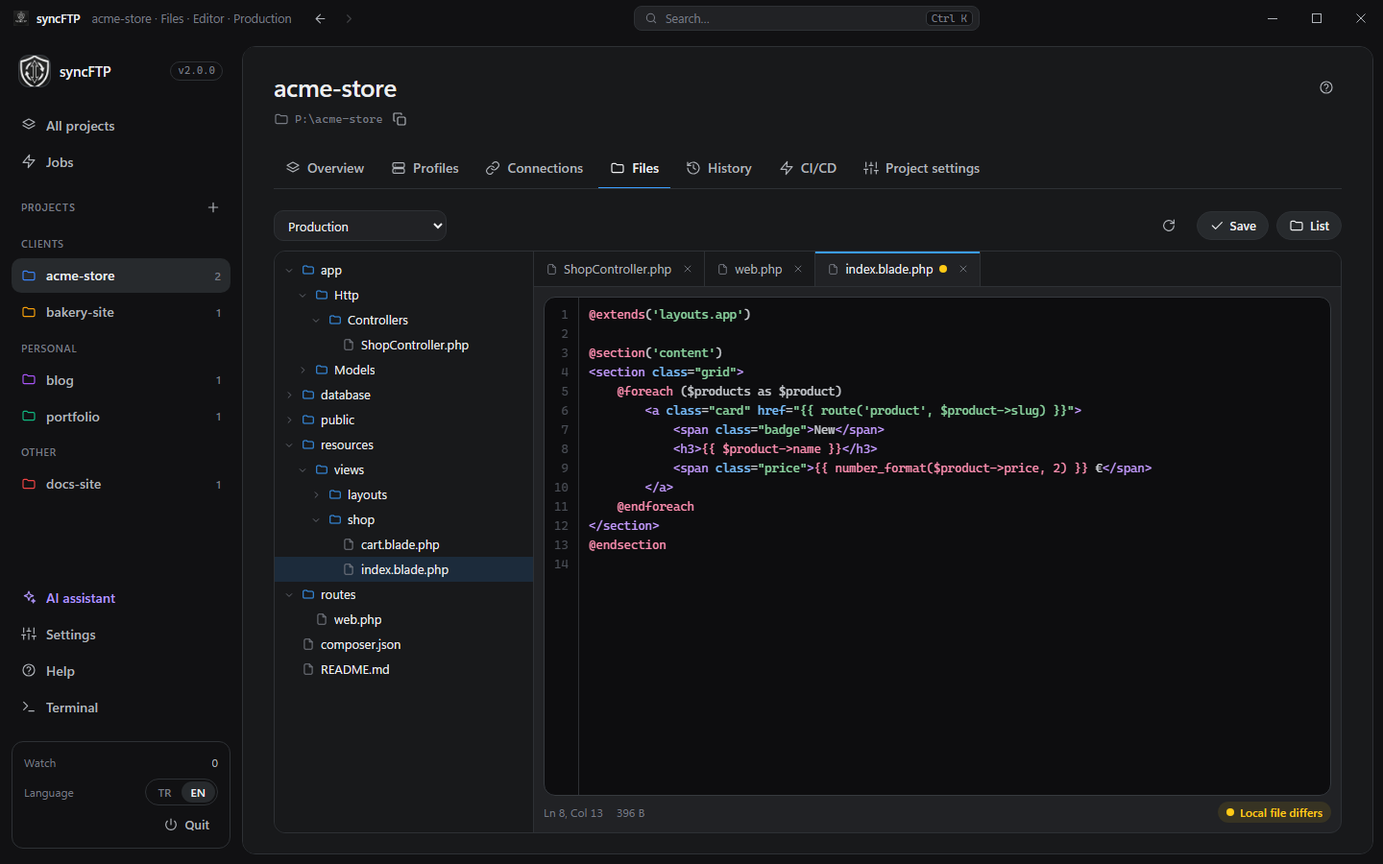
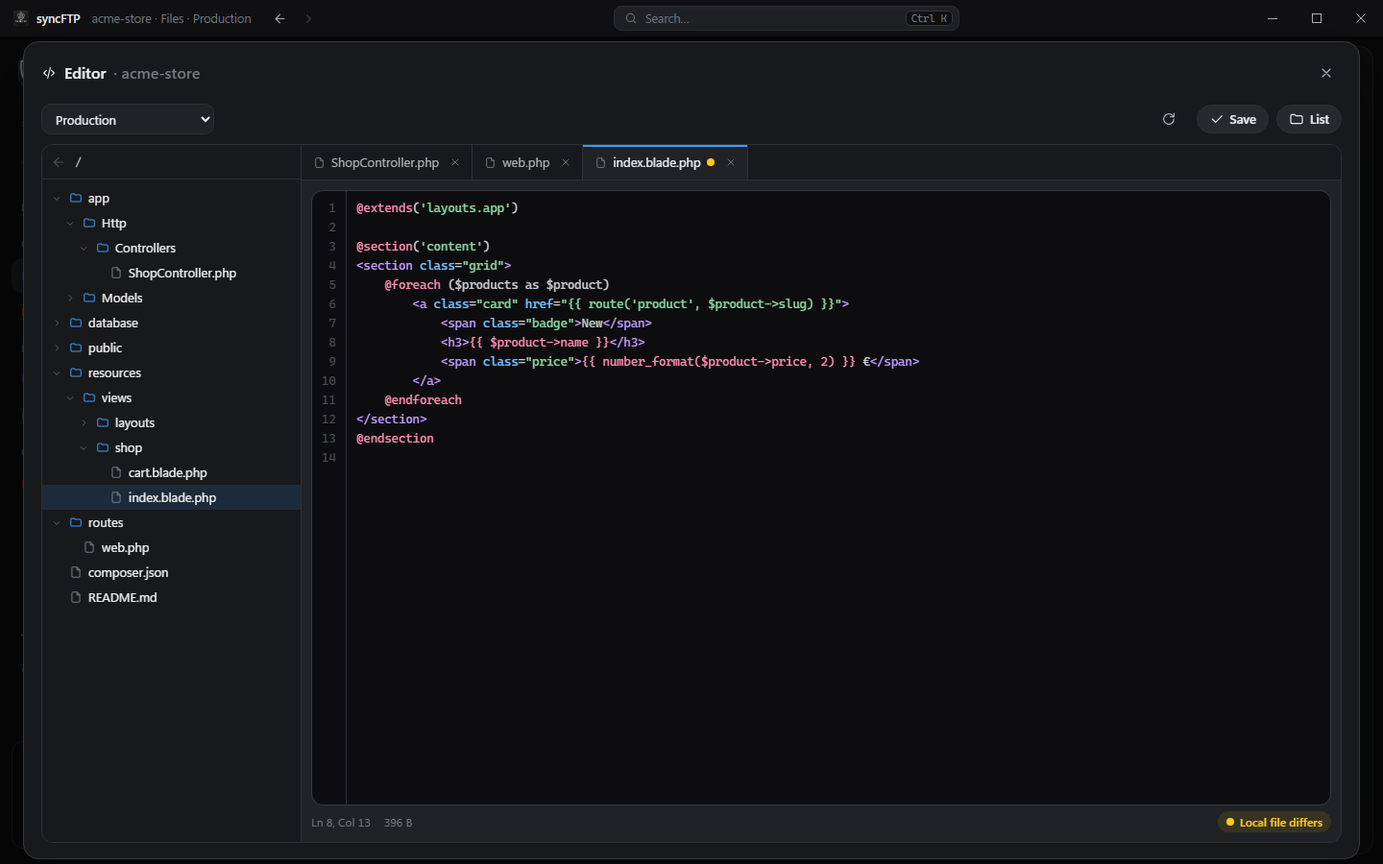
feat(gui): open the editor in a large window rooted at the current folder
The tree starts at the folder you are browsing (with up / path navigation),
the window keeps its tabs when closed and reopened, and Esc while typing no
longer closes it.

diff --git a/cmd/syncftp/web/assets/workspace.js b/cmd/syncftp/web/assets/workspace.js
@@ -16,7 +16,7 @@ Object.assign(T.tr, {
   wsEmpty: 'Soldan bir dosya seç', wsEmptyHint: 'Her dosya yeni bir sekmede açılır. Ctrl+S kaydet · Ctrl+W / Alt+W sekmeyi kapat · Ctrl+Tab sekmeler arası',
   wsClose: 'Kapat', wsCloseOthers: 'Diğerlerini kapat', wsCloseAll: 'Tümünü kapat', wsUnsavedN: '{0} sekmede kaydedilmemiş değişiklik var. Yine de kapatılsın mı?',
   wsReadonly: 'Bu dosya editörde açılamaz', wsLoadFail: 'Açılamadı', wsReload: 'Sunucudakini yeniden yükle',
-  wsReloadAsk: 'Kaydedilmemiş değişiklikler gider. Sunucudaki hâli yüklensin mi?', wsRetry: 'Tekrar dene',
+  wsReloadAsk: 'Kaydedilmemiş değişiklikler gider. Sunucudaki hâli yüklensin mi?', wsRetry: 'Tekrar dene', wsSetRoot: 'Ağacı buradan başlat',
 });
 Object.assign(T.en, {
   wsOpen: 'Editor', wsOpenHint: 'Editor mode: files on the left, tabbed editor on the right',
@@ -24,7 +24,7 @@ Object.assign(T.en, {
   wsEmpty: 'Pick a file on the left', wsEmptyHint: 'Each file opens in its own tab. Ctrl+S save · Ctrl+W / Alt+W close tab · Ctrl+Tab switch tabs',
   wsClose: 'Close', wsCloseOthers: 'Close others', wsCloseAll: 'Close all', wsUnsavedN: '{0} tab(s) have unsaved changes. Close anyway?',
   wsReadonly: 'This file can\'t be opened in the editor', wsLoadFail: 'Could not open', wsReload: 'Reload from the server',
-  wsReloadAsk: 'Unsaved changes will be lost. Load the server version?', wsRetry: 'Try again',
+  wsReloadAsk: 'Unsaved changes will be lost. Load the server version?', wsRetry: 'Try again', wsSetRoot: 'Start the tree here',
 });
 
 // Canlı çalışma alanları: "proje|profil" → { tabs: [{rel, host, ed, state, dirty}], active, open: Set, cache: Map }
@@ -38,14 +38,15 @@ function wsStore(w) {
 }
 const wsBase = (p) => p.split('/').pop();
 const wsDir = (p) => (p.includes('/') ? p.slice(0, p.lastIndexOf('/')) : '');
-// Etkin çalışma alanı (Editör modu açık ve sayfada)
-const wsLive = () => { const w = S.wsCur; return w && w.el && w.el.isConnected && parseRoute().tab === 'edit' ? w : null; };
+// Etkin çalışma alanı (Editör penceresi açık)
+const wsLive = () => { const w = S.wsCur; return w && w.el && w.el.isConnected ? w : null; };
 
-async function tabWorkspace(proj, srvName, relDir) {
-  const P = proj.name;
-  const cfg = await getConfig(P);
+// Editör penceresini aç: Dosyalar'da bulunulan profil/bağlantı ve klasör (ağacın kökü o klasör)
+async function openWorkspace(P, srvName, relDir) {
+  let cfg;
+  try { cfg = await getConfig(P); } catch (e) { return fail(e); }
   const conns = cfg.connections || [];
-  if (!cfg.servers.length && !conns.length) return `<div class="bos"><h3>${t('noServers')}</h3></div>`;
+  if (!cfg.servers.length && !conns.length) return toast(t('noServers'), 'bad');
   const connObj = isConnTarget(srvName) ? conns.find((c) => CONN_TARGET + c.name === srvName) : null;
   const srvObj = connObj ? null : cfg.servers.find((s) => s.name === srvName) || cfg.servers.find((s) => s.enabled) || cfg.servers[0];
   const srv = srvObj ? srvObj.name : CONN_TARGET + (connObj || conns[0]).name;
@@ -58,9 +59,9 @@ async function tabWorkspace(proj, srvName, relDir) {
     w.active = w.tabs.some((x) => x.rel === st.active) ? st.active : (w.tabs[0] || {}).rel || null;
     WS.set(key, w);
   }
-  // Gelinen klasör (Dosyalar'da bulunulan yer) ağaçta açık olsun
+  // Ağacın kökü: Dosyalar'da bulunulan klasör (üst klasöre ağacın başlığından çıkılır)
   const dir = relDir || '';
-  if (dir) { const parts = dir.split('/'); parts.forEach((_, i) => w.open.add(parts.slice(0, i + 1).join('/'))); }
+  w.root = dir;
 
   const opts = [
     ...cfg.servers.map((s) => [s.name, s.name, t('tabServers')]),
@@ -69,38 +70,38 @@ async function tabWorkspace(proj, srvName, relDir) {
   const groups = [...new Set(opts.map((o) => o[2]))];
   const select = `<select id="ws-srv" class="ws-srv" title="${t('tabServers')}">${groups.map((g) => `<optgroup label="${esc(g)}">${opts.filter((o) => o[2] === g).map(([v, l]) => `<option value="${esc(v)}" ${v === srv ? 'selected' : ''}>${esc(l)}</option>`).join('')}</optgroup>`).join('')}</select>`;
 
-  bind((root) => wsMount(root, w, dir));
-  return `<div class="ws-ust">${select}
+  // Kapatınca bir şey kaybolmaz: sekmeler (kaydedilmemiş değişiklikler dahil) bellekte kalır, tekrar açınca yerinde
+  const m = modal({
+    title: `${icon('code')}${t('wsOpen')} <span class="faint" style="font-weight:500">· ${esc(P)}</span>`, size: 'ws-modal',
+    body: `<div class="ws-ust">${select}
       <span class="ws-ara"></span>
       <button class="btn kucuk hayalet" id="ws-refresh" title="${t('wsRefresh')}">${icon('refresh')}</button>
       <button class="btn kucuk" id="ws-save" title="Ctrl+S">${icon('check')}${t('edSave')}</button>
       <button class="btn kucuk" id="ws-list" title="${t('wsListHint')}">${icon('folder')}${t('wsList')}</button></div>
-    <div class="ws" id="ws"><div class="ws-agac" id="ws-agac"></div>
-      <div class="ws-sag"><div class="ws-sekmeler" id="ws-tabs"></div><div class="ws-govde" id="ws-body"></div></div></div>`;
+    <div class="ws" id="ws"><div class="ws-sol"><div class="ws-kok" id="ws-kok"></div><div class="ws-agac" id="ws-agac"></div></div>
+      <div class="ws-sag"><div class="ws-sekmeler" id="ws-tabs"></div><div class="ws-govde" id="ws-body"></div></div></div>`,
+    onClose: () => {
+      // Editörler canlı kalır (DOM'dan ayrılır); tekrar açınca geri takılır
+      for (const tab of w.tabs) if (tab.host) tab.host.remove();
+      w.el = null;
+      if (S.wsCur === w) S.wsCur = null;
+    },
+  });
+  wsMount(m.root, w, m);
 }
 
-function wsMount(root, w, dir) {
+function wsMount(root, w, m) {
   const { P, srv } = w;
   w.el = $('#ws', root);
   S.wsCur = w;
-  const tree = $('#ws-agac', root), tabsEl = $('#ws-tabs', root), body = $('#ws-body', root);
+  const tree = $('#ws-agac', root), tabsEl = $('#ws-tabs', root), body = $('#ws-body', root), kok = $('#ws-kok', root);
   w.body = body;
-  // Önceki ziyaretten kalan editörler (DOM'dan ayrılmış ama canlı) geri takılır
+  // Önceki açılıştan kalan editörler (DOM'dan ayrılmış ama canlı) geri takılır
   for (const tab of w.tabs) if (tab.host) body.appendChild(tab.host);
   const empty = document.createElement('div');
   empty.className = 'ws-bos';
   empty.innerHTML = `${icon('code')}<b>${t('wsEmpty')}</b><small>${t('wsEmptyHint')}</small>`;
   body.appendChild(empty);
-
-  const fit = () => {
-    if (!w.el.isConnected) return;
-    const fr = $('#frame').getBoundingClientRect(), top = w.el.getBoundingClientRect().top;
-    w.el.style.height = Math.max(360, fr.bottom - top - 22) + 'px';
-  };
-  fit();
-  document.body.classList.add('ws-modu');
-  if (!wsMount.rz) { wsMount.rz = true; addEventListener('resize', () => { const x = wsLive(); if (x) x.fit(); }); }
-  w.fit = fit;
 
   // ── ağaç ──
   async function ls(path) {
@@ -114,7 +115,7 @@ function wsMount(root, w, dir) {
   }
   function rows(path, depth) {
     const entries = w.cache.get(path);
-    if (!entries) return w.open.has(path) || path === '' ? `<div class="ws-satir ws-yuk" style="--d:${depth}">${icon('refresh', 'spin')}</div>` : '';
+    if (!entries) return w.open.has(path) || path === w.root ? `<div class="ws-satir ws-yuk" style="--d:${depth}">${icon('refresh', 'spin')}</div>` : '';
     if (entries.error) return `<div class="ws-satir ws-hata" style="--d:${depth}">${esc(entries.error)}</div>`;
     return entries.map((e) => {
       const p = (path ? path + '/' : '') + e.name;
@@ -125,19 +126,32 @@ function wsMount(root, w, dir) {
         ${open ? rows(p, depth + 1) : ''}`;
     }).join('');
   }
-  const drawTree = () => { const st = tree.scrollTop; tree.innerHTML = rows('', 0); tree.scrollTop = st; };
+  // Ağacın kökü w.root (Dosyalar'da bulunulan klasör); başlıkta yol + bir üst klasöre çık
+  const drawKok = () => {
+    const parts = w.root.split('/').filter(Boolean);
+    kok.innerHTML = `<button class="ikon-btn" data-up title="${t('cmUp')}" ${w.root ? '' : 'disabled'}>${icon('left')}</button>
+      <span class="ws-kok-yol" title="/${esc(w.root)}"><a href="javascript:void 0" data-kok="">/</a>${parts.map((x, i) => `${i ? '<span>/</span>' : ''}<a href="javascript:void 0" data-kok="${esc(parts.slice(0, i + 1).join('/'))}">${esc(x)}</a>`).join('')}</span>`;
+  };
+  const drawTree = () => { drawKok(); const st = tree.scrollTop; tree.innerHTML = rows(w.root, 0); tree.scrollTop = st; };
+  const setRoot = (p) => { w.root = p; tree.scrollTop = 0; loadOpen().then(() => { if (w.active) markActive(w.active); }); };
+  kok.onclick = (e) => {
+    if (e.target.closest('[data-up]')) return setRoot(wsDir(w.root));
+    const a = e.target.closest('[data-kok]');
+    if (a && a.dataset.kok !== w.root) setRoot(a.dataset.kok);
+  };
   async function ensure(path) {
     if (w.cache.has(path)) return;
     try { await ls(path); } catch (e) { w.cache.set(path, Object.assign([], { error: e.message })); }
   }
   async function loadOpen() {
     drawTree();
-    await ensure('');
+    await ensure(w.root);
     // Açık klasörler sığdan derine yüklenir (üstü kapalı olan atlanır)
     const open = [...w.open].sort((a, b) => a.split('/').length - b.split('/').length);
     for (const p of open) {
       const parent = wsDir(p);
-      if (parent && !w.open.has(parent)) continue;
+      if (!(w.root === '' || p.startsWith(w.root + '/'))) continue; // kökün dışında
+      if (parent !== w.root && !w.open.has(parent)) continue;
       drawTree();
       await ensure(p);
     }
@@ -216,20 +230,22 @@ function wsMount(root, w, dir) {
     for (const x of w.tabs) if (x.host) x.host.hidden = x.rel !== rel;
     if (tab.state === 'new') load(tab);
     else if (tab.ed) tab.ed.focus();
+    markActive(rel);
+    wsStore(w);
+    drawTabs();
+  }
+  // Ağaçta etkin dosyayı vurgula; klasörü kapalıysa (kökün altındaysa) oraya kadar aç
+  function markActive(rel) {
     $$('.ws-satir.aktif', tree).forEach((x) => x.classList.remove('aktif'));
     const mark = () => {
       const row = [...tree.querySelectorAll('.ws-satir[data-p]')].find((x) => x.dataset.p === rel);
       if (row) { row.classList.add('aktif'); row.scrollIntoView({ block: 'nearest' }); }
       return !!row;
     };
-    // Dosyanın klasörü ağaçta kapalıysa oraya kadar aç
-    if (!mark()) {
-      const parts = wsDir(rel).split('/').filter(Boolean);
-      parts.forEach((_, i) => w.open.add(parts.slice(0, i + 1).join('/')));
-      loadOpen().then(mark);
-    }
-    wsStore(w);
-    drawTabs();
+    if (mark() || !(w.root === '' || rel.startsWith(w.root + '/'))) return;
+    const parts = wsDir(rel).split('/').filter(Boolean);
+    parts.forEach((_, i) => { const d = parts.slice(0, i + 1).join('/'); if (w.root === '' || d.startsWith(w.root + '/')) w.open.add(d); });
+    loadOpen().then(mark);
   }
   function openTab(rel) {
     if (!find(rel)) {
@@ -260,7 +276,7 @@ function wsMount(root, w, dir) {
     if (dirtyN && !(await confirmBox(t('edDiscardTitle'), t('wsUnsavedN', dirtyN), t('edDiscard'), true))) return;
     for (const x of list.slice()) await closeTab(x.rel, false);
   }
-  Object.assign(w, { find, openTab, closeTab, closeMany });
+  Object.assign(w, { find, openTab, closeTab, closeMany, setRoot, close: () => m.close() });
   w.save = () => { const tab = find(w.active); if (tab && tab.ed) tab.ed.save(); };
   w.closeActive = () => { if (w.active) closeTab(w.active); };
   w.cycle = (dir) => {
@@ -272,7 +288,8 @@ function wsMount(root, w, dir) {
 
 
   // ── araç çubuğu ──
-  $('#ws-srv', root).onchange = (e) => go(pHash(P, 'edit', e.target.value));
+  // Başka profil / bağlantı: pencere o hedefin kökünde yeniden açılır
+  $('#ws-srv', root).onchange = (e) => { const v = e.target.value; m.close(); openWorkspace(P, v, ''); };
   $('#ws-save', root).onclick = () => w.save();
   $('#ws-refresh', root).onclick = () => {
     for (const k of [...S.lsCache.keys()]) if (k.startsWith(`${P}|${srv}|`)) S.lsCache.delete(k);
@@ -280,7 +297,8 @@ function wsMount(root, w, dir) {
     loadOpen();
   };
   $('#ws-list', root).onclick = () => {
-    const d = w.active ? wsDir(w.active) : dir;
+    const d = w.active ? wsDir(w.active) : w.root;
+    m.close();
     go(`${pHash(P, 'files', srv)}${d ? '/' + enc(d) : ''}`);
   };
 
@@ -313,17 +331,20 @@ CM.register('#ws-agac .ws-satir[data-p]', (el) => {
     { heading: p },
     isDir ? { label: t('cmOpen'), icon: 'folder', action: () => el.click() } : { label: t('cmOpen'), icon: 'code', action: () => openTab(p) },
     !isDir && { label: t('preview'), icon: 'eye', action: () => previewFile(P, srv, p) },
-    { label: t('wsList'), icon: 'folder', action: () => go(`${pHash(P, 'files', srv)}${(isDir ? p : wsDir(p)) ? '/' + enc(isDir ? p : wsDir(p)) : ''}`) },
+    isDir && { label: t('wsSetRoot'), icon: 'folder', action: () => w.setRoot(p) },
+    { label: t('wsList'), icon: 'folder', action: () => { w.close(); go(`${pHash(P, 'files', srv)}${(isDir ? p : wsDir(p)) ? '/' + enc(isDir ? p : wsDir(p)) : ''}`); } },
     '-',
     { label: t('cmCopyRel'), icon: 'copy', action: () => CM.copy(p) },
   ].filter(Boolean);
 });
 
 
-// Kısayollar — yalnızca Editör modu sayfadayken; açık bir pencere (modal) varken çalışmaz
+// Kısayollar — yalnızca Editör penceresi en üstteyken (üstünde kaydet / onay penceresi yokken)
 document.addEventListener('keydown', (e) => {
   const w = wsLive();
-  if (!w || S.modals.size) return;
+  if (!w || $('#modal-kok').lastElementChild !== w.el.closest('.modal-arka')) return;
+  // Yazarken Esc pencereyi kapatmasın (ağaçta / araç çubuğundayken Esc kapatır)
+  if (e.key === 'Escape' && e.target.closest('.ed-alan')) { e.stopPropagation(); return; }
   const k = e.key.toLowerCase();
   const mod = e.ctrlKey || e.metaKey;
   if (mod && k === 's') {

diff --git a/cmd/syncftp/web/assets/help.js b/cmd/syncftp/web/assets/help.js
@@ -109,7 +109,7 @@ const HELP = [
       <li><b>Silme</b> bir iş olarak çalışır: sağ altta canlı görünür, silinen her dosya akar, iş penceresindeki <b>Durdur</b> kalanlara dokunmadan keser. Ayrı bağlantı kullandığı için büyük klasör silinirken de gezinmeye devam edebilirsin.</li>
       <li><b>Sürükle-bırak</b>: bilgisayarından dosya ya da klasörleri listeye bırak → bulunduğun klasöre yüklenir (klasörler alt yapısıyla); bir klasör satırının üstüne bırakırsan o klasöre. Yükleme yüzdesi düğmede görünür.</li>
       <li><b>Düzenle</b>: dosyanın tamamı (4 MB'a kadar; binary ve UTF-8 olmayan dosyalar yalnızca görüntülenir) renkli bir editörde açılır — Tab / Shift+Tab girinti, <kbd>Ctrl</kbd>+<kbd>S</kbd> kaydet.</li>
-      <li><b>Editör modu</b>: Dosyalar araç çubuğundaki <i>Editör</i> düğmesi (ya da Ctrl+K → "Dosyalar · Editör") solda sunucudaki klasör ağacını, sağda sekmeli editörü açar; bulunduğun klasör açık gelir. Her dosya ayrı sekmede açılır, değişmiş sekmede nokta durur. <kbd>Ctrl</kbd>+<kbd>S</kbd> kaydet, <kbd>Ctrl</kbd>+<kbd>W</kbd> ya da <kbd>Alt</kbd>+<kbd>W</kbd> sekmeyi kapat (kaydedilmemişse sorar), <kbd>Ctrl</kbd>+<kbd>Tab</kbd> / <kbd>Ctrl</kbd>+<kbd>Shift</kbd>+<kbd>Tab</kbd> sekmeler arası, orta tık sekmeyi kapatır. Sekmede sağ tık: diğerlerini / tümünü kapat, sunucudakini yeniden yükle, önizle. Kaydetme, yedek, çakışma uyarısı ve "sunucu + yerel" seçimi Düzenle penceresiyle aynı. Sayfadan çıkıp dönünce sekmeler (kaydedilmemiş değişiklikler dahil) yerinde durur; panel yeniden açılınca açık sekmeler geri gelir. <i>Liste</i> düğmesi dosya listesine döner.</li>
+      <li><b>Editör</b>: Dosyalar araç çubuğundaki <i>Editör</i> düğmesi (ya da Ctrl+K → "Dosyalar · Editör") ekranı kaplayan bir pencere açar: solda ağaç, sağda sekmeli editör. Ağaç bulunduğun klasörden (ve profil/bağlantıdan) başlar; üstteki ← bir üst klasöre çıkar, yoldaki klasör adlarına tıklayınca oraya geçer, klasörde sağ tık → <i>Ağacı buradan başlat</i>. Yazarken <kbd>Esc</kbd> pencereyi kapatmaz. Her dosya ayrı sekmede açılır, değişmiş sekmede nokta durur. <kbd>Ctrl</kbd>+<kbd>S</kbd> kaydet, <kbd>Ctrl</kbd>+<kbd>W</kbd> ya da <kbd>Alt</kbd>+<kbd>W</kbd> sekmeyi kapat (kaydedilmemişse sorar), <kbd>Ctrl</kbd>+<kbd>Tab</kbd> / <kbd>Ctrl</kbd>+<kbd>Shift</kbd>+<kbd>Tab</kbd> sekmeler arası, orta tık sekmeyi kapatır. Sekmede sağ tık: diğerlerini / tümünü kapat, sunucudakini yeniden yükle, önizle. Kaydetme, yedek, çakışma uyarısı ve "sunucu + yerel" seçimi Düzenle penceresiyle aynı. Pencereyi kapatıp tekrar açınca sekmeler (kaydedilmemiş değişiklikler dahil) yerinde durur; panel yeniden açılınca açık sekmeler geri gelir. <i>Liste</i> düğmesi dosya listesine döner.</li>
       <li>Kaydederken: <b>Sunucu + yerel</b> (yerel dosya da yazılır, CRLF korunur, state güncellenir) ya da <b>Yalnızca sunucu</b> (state değişmez; yereldeki dosya değişmedikçe sync düzenlemeyi ezmez). "Bir daha sorma" ile seçim hatırlanır; <i>Ayarlar → Genel</i>'den ya da editörün altındaki <i>Tekrar sor</i>'dan değiştirilir.</li>
       <li>Kayıt normal upload'tan geçer: sunucudaki eski hal yedeklenir, <i>Geçmiş</i>'ten geri alınabilir. Dosyayı açtığınızdan beri sunucuda biri değiştirdiyse <b>üzerine yaz</b> ya da <b>sunucudakini aç</b> diye sorulur.</li>
       <li><b>Biçimlendir</b>: JS / CSS / JSON / HTML / XML dosyalarında önizleme ve karşılaştırmanın üstünde <i>Orijinal | Biçimlendir</i> seçimi vardır. Sıkıştırılmış (minify) dosyalar kendiliğinden okunur hâlde açılır. Yalnızca görünümdür — sunucudaki ya da yereldeki dosya değişmez; internet gerekmez.</li>
@@ -127,7 +127,7 @@ const HELP = [
       <li><b>Deleting</b> runs as a job: it shows live at the bottom right, every deleted file streams in, and <b>Stop</b> in its window cuts it off leaving the rest untouched. It uses its own connection, so you can keep browsing while a big folder is being deleted.</li>
       <li><b>Drag and drop</b>: drop files or folders from your computer onto the list → they are uploaded to the current folder (folders with their structure); drop onto a folder row to upload into that folder. The upload percentage shows on the button.</li>
       <li><b>Edit</b>: the whole file (up to 4 MB; binary and non-UTF-8 files are view-only) opens in a highlighted editor — Tab / Shift+Tab indent, <kbd>Ctrl</kbd>+<kbd>S</kbd> saves.</li>
-      <li><b>Editor mode</b>: the <i>Editor</i> button in the Files toolbar (or Ctrl+K → "Files · Editor") opens the server's folder tree on the left and a tabbed editor on the right, with the current folder expanded. Each file opens in its own tab; a modified tab shows a dot. <kbd>Ctrl</kbd>+<kbd>S</kbd> saves, <kbd>Ctrl</kbd>+<kbd>W</kbd> or <kbd>Alt</kbd>+<kbd>W</kbd> closes the tab (asks if unsaved), <kbd>Ctrl</kbd>+<kbd>Tab</kbd> / <kbd>Ctrl</kbd>+<kbd>Shift</kbd>+<kbd>Tab</kbd> switch tabs, middle-click closes a tab. Right-click a tab: close others / all, reload from the server, preview. Saving, backups, the conflict check and the "server + local" choice work as in the Edit window. Leaving the page and coming back keeps the tabs (unsaved changes included); open tabs come back when the panel is reopened. <i>List</i> returns to the file list.</li>
+      <li><b>Editor</b>: the <i>Editor</i> button in the Files toolbar (or Ctrl+K → "Files · Editor") opens a near full-screen window: a tree on the left, a tabbed editor on the right. The tree starts at the folder (and profile/connection) you are in; ← at the top goes up one folder, clicking a folder name in the path jumps there, right-click a folder → <i>Start the tree here</i>. <kbd>Esc</kbd> while typing doesn't close the window. Each file opens in its own tab; a modified tab shows a dot. <kbd>Ctrl</kbd>+<kbd>S</kbd> saves, <kbd>Ctrl</kbd>+<kbd>W</kbd> or <kbd>Alt</kbd>+<kbd>W</kbd> closes the tab (asks if unsaved), <kbd>Ctrl</kbd>+<kbd>Tab</kbd> / <kbd>Ctrl</kbd>+<kbd>Shift</kbd>+<kbd>Tab</kbd> switch tabs, middle-click closes a tab. Right-click a tab: close others / all, reload from the server, preview. Saving, backups, the conflict check and the "server + local" choice work as in the Edit window. Closing and reopening the window keeps the tabs (unsaved changes included); open tabs come back when the panel is reopened. <i>List</i> returns to the file list.</li>
       <li>On save: <b>Server + local</b> (the local file is written too, CRLF kept, state updated) or <b>Server only</b> (state unchanged; sync won't overwrite the edit unless the local file changes). "Don't ask again" remembers the choice; change it in <i>Settings → General</i> or with <i>Ask again</i> under the editor.</li>
       <li>Saving goes through the normal upload: the old server version is backed up and can be undone from <i>History</i>. If someone changed the file on the server since you opened it, you are asked to <b>overwrite</b> or <b>open the server version</b>.</li>
       <li><b>Beautify</b>: for JS / CSS / JSON / HTML / XML files the preview and compare views have an <i>Original | Beautify</i> switch. Minified files open in the readable form automatically. It is view-only — the file on the server or on disk is not changed; works offline.</li>

diff --git a/cmd/syncftp/web/assets/app.js b/cmd/syncftp/web/assets/app.js
@@ -700,7 +700,7 @@ async function render(soft = false) {
   const r = parseRoute();
   if (r.project) S.lastProject = r.project;
   document.body.classList.toggle('terminal-modu', r.page === 'terminal');
-  document.body.classList.remove('secim-acik', 'ws-modu'); // Dosyalar seçim çubuğu / editör modu dolgusu (yeni çizim kendi verir)
+  document.body.classList.remove('secim-acik'); // Dosyalar seçim çubuğunun alt dolgusu (yeni çizim kendi verir)
   if (window.tbUpdate) window.tbUpdate(); // kendi pencere barımız (titlebar.js)
   $$('.nav a').forEach((a) => a.classList.toggle('aktif',
     !!((a.dataset.nav === 'home' && r.page === 'home') || (a.dataset.nav === 'jobs' && r.page === 'jobs') || (a.dataset.nav === 'help' && r.page === 'help') || (a.dataset.nav === 'settings' && r.page === 'settings') || (a.dataset.nav === 'terminal' && r.page === 'terminal') || (a.dataset.proj && a.dataset.proj === r.project))));
@@ -710,7 +710,7 @@ async function render(soft = false) {
     [...S.modals].forEach((c) => c());
     const tabsEl = r.page === 'project' && root.dataset.proj === r.project ? $('.sayfa > .tabs', root) : null;
     if (tabsEl) {
-      const activeTab = r.tab === 'server' ? 'servers' : r.tab === 'connection' ? 'connections' : r.tab === 'edit' ? 'files' : r.tab;
+      const activeTab = r.tab === 'server' ? 'servers' : r.tab === 'connection' ? 'connections' : r.tab;
       $$('a', tabsEl).forEach((a) => a.classList.toggle('aktif', a.getAttribute('href') === pHash(r.project, activeTab)));
       while (tabsEl.nextSibling) tabsEl.nextSibling.remove();
       tabsEl.insertAdjacentHTML('afterend', `<div class="yukleniyor">${icon('refresh', 'spin')} ${t('loading')}</div>`);
@@ -1132,11 +1132,11 @@ async function pageProject(r) {
     ['overview', 'layers', t('tabOverview')], ['servers', 'server', t('tabServers')], ['connections', 'link', t('tabConnections')],
     ['files', 'folder', t('tabFiles')], ['history', 'history', t('tabHistory')], ['cicd', 'zap', t('tabCicd')], ['settings', 'sliders', t('tabSettings')],
   ];
-  const activeTab = r.tab === 'server' ? 'servers' : r.tab === 'connection' ? 'connections' : r.tab === 'edit' ? 'files' : r.tab;
+  const activeTab = r.tab === 'server' ? 'servers' : r.tab === 'connection' ? 'connections' : r.tab;
   const head =`<div class="baslik-satir"><div><h1>${esc(proj.name)}</h1>
       <div class="yol">${icon('folder')}<span>${esc(proj.path)}</span><button class="ikon-btn" style="width:24px;height:24px" data-copy="${esc(proj.path)}" title="${t('copyPath')}">${icon('copy')}</button></div></div>
       <div class="aksiyonlar"><span id="proj-aks" class="aksiyonlar"></span>
-        <a class="ikon-btn" href="#/help/${({ overview: 'sync', servers: 'start', server: 'start', connections: 'conns', connection: 'conns', files: 'files', edit: 'files', history: 'rollback', cicd: 'cicd', settings: 'project' })[r.tab] || 'start'}" title="${t('navHelp')}">${icon('help')}</a></div></div>
+        <a class="ikon-btn" href="#/help/${({ overview: 'sync', servers: 'start', server: 'start', connections: 'conns', connection: 'conns', files: 'files', history: 'rollback', cicd: 'cicd', settings: 'project' })[r.tab] || 'start'}" title="${t('navHelp')}">${icon('help')}</a></div></div>
     <div class="tabs">${tabs.map(([k, ic, l]) => `<a href="${pHash(proj.name, k)}" class="${activeTab === k ? 'aktif' : ''}">${icon(ic)}${l}</a>`).join('')}</div>`;
   let body;
   switch (r.tab) {
@@ -1146,7 +1146,6 @@ async function pageProject(r) {
     case 'connection': body = await tabConnEdit(proj, r.sub); break;
     case 'settings': body = await tabSettings(proj); break;
     case 'files': body = await tabFiles(proj, r.sub, r.sub2); break;
-    case 'edit': body = await tabWorkspace(proj, r.sub, r.sub2); break; // workspace.js
     case 'history': body = await tabHistory(proj, r.sub); break;
     case 'cicd': body = await tabCicd(proj); break;
     default: body = await tabOverview(proj);
@@ -2532,8 +2531,8 @@ async function tabFiles(proj, srvName, relPath) {
     };
     up.onchange = () => uploadItems([...up.files].map((f) => ({ file: f, path: f.name })), rel);
     bindDropUpload(root, (items, dirName) => uploadItems(items, dirName ? full(dirName) : rel));
-    // Editör modu (workspace.js): solda ağaç, sağda sekmeli editör — bulunduğun klasör açık gelir
-    $('#f-editor', root).onclick = () => go(`${pHash(P, 'edit', srv)}${rel ? '/' + enc(rel) : ''}`);
+    // Editör (workspace.js): büyük pencere — solda bulunduğun klasörden başlayan ağaç, sağda sekmeli editör
+    $('#f-editor', root).onclick = () => openWorkspace(P, srv, rel);
     // Ağaç: shell `tree` ile aynı çekirdek (iş olarak çalışır, çıktı canlı akar)
     $('#f-tree', root).onclick = () => {
       const m = modal({

diff --git a/cmd/syncftp/web/assets/app.css b/cmd/syncftp/web/assets/app.css
@@ -588,13 +588,23 @@ details.bolum.katlanir > summary h3 + .ok-ac { margin-left: auto; }
 .ed-hatirla input { accent-color: var(--accent); }
 .ed-durum .ed-hedef { display: inline-flex; align-items: center; gap: 4px; color: var(--muted); }
 
-/* Dosyalar → Editör modu (workspace.js): solda ağaç, sağda sekmeli editör; yükseklik JS ile çerçeveye sığar */
-body.ws-modu .frame { padding-bottom: 22px; }
-.ws-ust { display: flex; align-items: center; gap: 8px; margin: 4px 0 10px; }
+/* Dosyalar → Editör penceresi (workspace.js): ekranın neredeyse tamamı; solda bulunulan klasörden ağaç, sağda sekmeler */
+.modal.ws-modal { width: min(1680px, 100%); height: calc(100vh - 48px); }
+.ws-modal .modal-ic { flex: 1; display: flex; flex-direction: column; overflow: hidden; }
+.ws-modal .ws { flex: 1; min-height: 0; }
+.ws-ust { display: flex; align-items: center; gap: 8px; margin: 0 0 10px; flex: none; }
 .ws-ust .ws-ara { flex: 1; }
 .ws-srv { width: auto; min-width: 180px; height: 32px; padding: 0 10px; font-size: 13px; }
 .ws { display: grid; grid-template-columns: minmax(200px, 270px) minmax(0, 1fr); border: 1px solid var(--line); border-radius: 12px; overflow: hidden; min-height: 360px; background: var(--surface); }
-.ws-agac { overflow: auto; border-right: 1px solid var(--line); padding: 6px 0; font-size: 13px; background: var(--frame); }
+.ws-sol { display: flex; flex-direction: column; min-height: 0; border-right: 1px solid var(--line); background: var(--frame); }
+.ws-kok { display: flex; align-items: center; gap: 4px; height: 36px; padding: 0 8px 0 4px; border-bottom: 1px solid var(--line); flex: none; font: 12px var(--mono); color: var(--muted); }
+.ws-kok .ikon-btn { width: 26px; height: 26px; flex: none; }
+.ws-kok .ikon-btn[disabled] { opacity: .35; cursor: default; }
+.ws-kok-yol { overflow: hidden; text-overflow: ellipsis; white-space: nowrap; flex: 1; }
+.ws-kok-yol a { color: var(--muted); text-decoration: none; }
+.ws-kok-yol a:hover { color: var(--text); }
+.ws-kok-yol span { margin: 0 3px; color: var(--faint); }
+.ws-agac { flex: 1; min-height: 0; overflow: auto; padding: 6px 0; font-size: 13px; }
 .ws-satir { display: flex; align-items: center; gap: 6px; height: 26px; padding: 0 10px 0 calc(8px + var(--d, 0) * 14px); cursor: pointer; white-space: nowrap; color: var(--text); user-select: none; }
 .ws-satir:hover { background: var(--surface-2); }
 .ws-satir.aktif { background: var(--accent-soft); color: var(--text); }
@@ -630,7 +640,7 @@ body.ws-modu .frame { padding-bottom: 22px; }
 .ws-bos b { color: var(--muted); font-weight: 600; }
 .ws-bos small { max-width: 420px; line-height: 1.5; }
 .ws-bilgi { display: grid; gap: 12px; justify-items: start; padding: 10px; }
-@media (max-width: 760px) { .ws { grid-template-columns: 1fr; grid-template-rows: 180px minmax(0, 1fr); } .ws-agac { border-right: 0; border-bottom: 1px solid var(--line); } }
+@media (max-width: 760px) { .ws { grid-template-columns: 1fr; grid-template-rows: 200px minmax(0, 1fr); } .ws-sol { border-right: 0; border-bottom: 1px solid var(--line); } }
 
 /* Modal düğmesindeki tek tuş kısayolu (actions[].key) */
 .btn kbd.kisayol { margin-left: 6px; padding: 0 4px; font-size: 10px; line-height: 15px; opacity: .7; }

diff --git a/cmd/syncftp/web/assets/titlebar.js b/cmd/syncftp/web/assets/titlebar.js
@@ -15,7 +15,7 @@
     restore: svg('<rect x=".5" y="2.5" width="7" height="7"/><path d="M2.5 2.5V.5h7v7h-2"/>'),
     close: svg('<path d="M.5.5l9 9M9.5.5l-9 9"/>'),
   };
-  const TAB = { overview: 'tabOverview', servers: 'tabServers', server: 'tabServers', connections: 'tabConnections', connection: 'tabConnections', files: 'tabFiles', edit: 'tabFiles', history: 'tabHistory', cicd: 'tabCicd', settings: 'tabSettings' };
+  const TAB = { overview: 'tabOverview', servers: 'tabServers', server: 'tabServers', connections: 'tabConnections', connection: 'tabConnections', files: 'tabFiles', history: 'tabHistory', cicd: 'tabCicd', settings: 'tabSettings' };
 
   function where() {
     const r = parseRoute();
@@ -25,7 +25,7 @@
       case 'settings': return [t('cmSettings')];
       case 'help': return [t('cmHelp')];
       case 'terminal': return ['Terminal', r.sub || ''];
-      case 'project': return [r.project, TAB[r.tab] ? t(TAB[r.tab]) : r.tab, r.tab === 'edit' ? t('wsOpen') : '', (r.tab === 'files' || r.tab === 'edit') && r.sub ? r.sub.replace(/^@conn:/, '') : ''];
+      case 'project': return [r.project, TAB[r.tab] ? t(TAB[r.tab]) : r.tab, r.tab === 'files' && r.sub ? r.sub.replace(/^@conn:/, '') : ''];
     }
     return [];
   }

diff --git a/cmd/syncftp/web/assets/palette.js b/cmd/syncftp/web/assets/palette.js
@@ -52,7 +52,7 @@
       const P = p.name;
       out.push({ group: t('pkGroupProjects'), icon: p.ok ? 'folder' : 'alert', label: P, hint: p.path, run: () => go(pHash(P)) });
       for (const [tab, ic, key] of tabs.slice(1)) out.push({ group: t('pkGroupProjects'), icon: ic, label: `${P} · ${t(key)}`, run: () => go(pHash(P, tab)) });
-      out.push({ group: t('pkGroupProjects'), icon: 'code', label: `${P} · ${t('tabFiles')} · ${t('wsOpen')}`, run: () => go(pHash(P, 'edit')) });
+      out.push({ group: t('pkGroupProjects'), icon: 'code', label: `${P} · ${t('tabFiles')} · ${t('wsOpen')}`, run: () => openWorkspace(P) });
       if (p.ok && p.enabled) {
         out.push({ group: t('pkGroupActions'), icon: 'upload', label: `${P} · ${t('syncAll')}`, run: () => startJobs(P, { kind: 'sync' }, t('sync')) });
         out.push({ group: t('pkGroupActions'), icon: 'eye', label: `${P} · ${t('dryRun')}`, run: () => startJobs(P, { kind: 'sync', dry_run: true }, t('dryRun')) });

diff --git a/README.md b/README.md
@@ -62,7 +62,7 @@ The interface follows your OS language (Turkish or English); switch with `syncft
 | ![Release with per-file diff](docs/screenshots/release.png) | ![File triggers](docs/screenshots/triggers.png) |
 | **History** — every release with a folder tree, per-file diff and partial rollback | **File triggers** — run a command / SSH / HTTP / Slack when certain files are uploaded |
 | ![Editor mode](docs/screenshots/workspace.png) | ![Quick search](docs/screenshots/palette.png) |
-| **Editor mode** — server folder tree on the left, files in tabs on the right | **Ctrl+K** — jump to any project, tab or action |
+| **Editor** — server folder tree on the left, files in tabs on the right | **Ctrl+K** — jump to any project, tab or action |
 
 *Screenshots use demo projects on a local test server.*
 
@@ -149,7 +149,7 @@ The panel is a local web app served on `127.0.0.1` with a per-session token, sho
 | **Overview** | pending changes per server (`+new ~changed −deleted`; click for the list and a coloured local ↔ server diff), sync / dry-run / full sync / retry failed, calibrate, verify (+fix), measure connection limit, compare two servers, milestone, freeze list, watch on/off, run a command on the server (SFTP) |
 | **Profiles** | a profile is an entry of `servers[]` in the config (`--server` on the CLI): add / edit / duplicate / enable / delete profiles; protocol, SSH key, tunnel, paths, performance, filters, hooks, remote SSH commands; *Test connection* without saving. A server that uses a connection profile shows a short summary of the profile (with *Edit profile*) instead of its credential fields; a server with hand-entered details can be turned into a profile with *Make it a profile* |
 | **Connections** | shared credential profiles; *From a server* moves a server's details into a profile (an existing profile for the same account is reused), *From library* / *Save to library* — entries already in the library show an *In library* badge, and saving over a same-named library entry for another account asks first |
-| **Files** | remote browser: preview with syntax highlighting (HTML files also rendered in a sandboxed frame; minified JS / CSS / JSON / HTML open **beautified**, with an *Original / Beautify* switch — view only), compare with local, **edit**, an **editor mode** (folder tree on the left, files open in tabs on the right; Ctrl+S / Ctrl+W / Ctrl+Tab, unsaved tabs survive leaving the page), download, upload, new folder, rename / move (with a remote folder picker), multi-select (Ctrl / Shift + click, Ctrl+A; the actions appear in a bar pinned to the bottom), freeze toggle (files or whole folders), recursive search with live results, tree view. Badges show files that sync will never upload: *frozen*, *ignore*, *exclude*, *not included* (the filters apply to the local side; the server copy is left alone) |
+| **Files** | remote browser: preview with syntax highlighting (HTML files also rendered in a sandboxed frame; minified JS / CSS / JSON / HTML open **beautified**, with an *Original / Beautify* switch — view only), compare with local, **edit**, an **editor window** (near full screen: a folder tree starting at the current folder on the left, files open in tabs on the right; Ctrl+S / Ctrl+W / Ctrl+Tab, unsaved tabs survive closing the window), download, upload, new folder, rename / move (with a remote folder picker), multi-select (Ctrl / Shift + click, Ctrl+A; the actions appear in a bar pinned to the bottom), freeze toggle (files or whole folders), recursive search with live results, tree view. Badges show files that sync will never upload: *frozen*, *ignore*, *exclude*, *not included* (the filters apply to the local side; the server copy is left alone) |
 | **History** | releases with backup state; open a release to see its changed files as a **folder tree** next to the **diff** of the selected file (previous server version → uploaded version), tick files and **roll back only those**, or roll back the whole release; sync logs |
 | **CI/CD** | deploy triggers, webhook listener, trycloudflare tunnel, recent deliveries |
 | **Settings** | global sync settings, ignore rules editor with templates (per local folder), OS keyring, config import / export, local HTTP API, and a **Danger zone** to remove the project from syncFTP |
